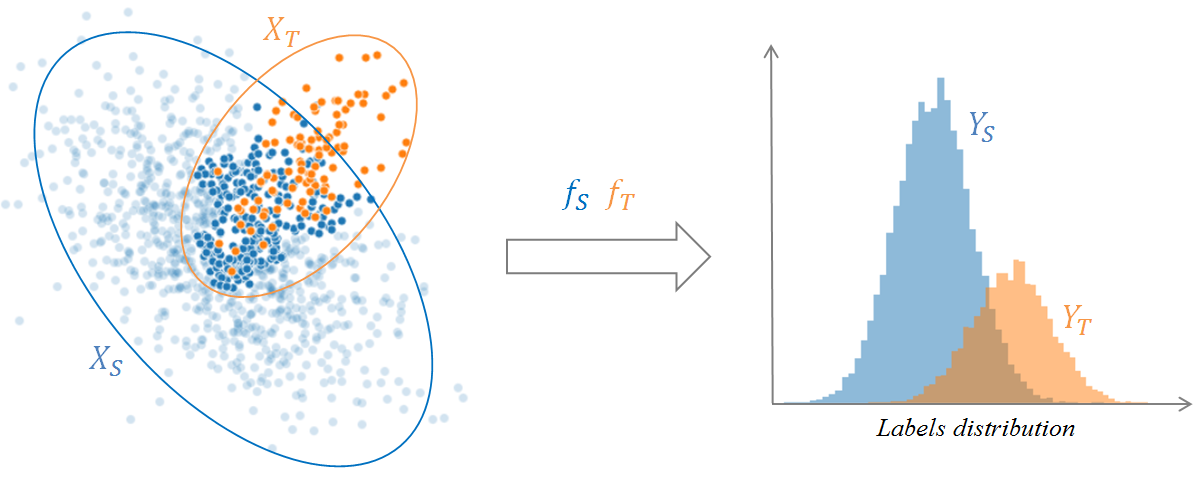
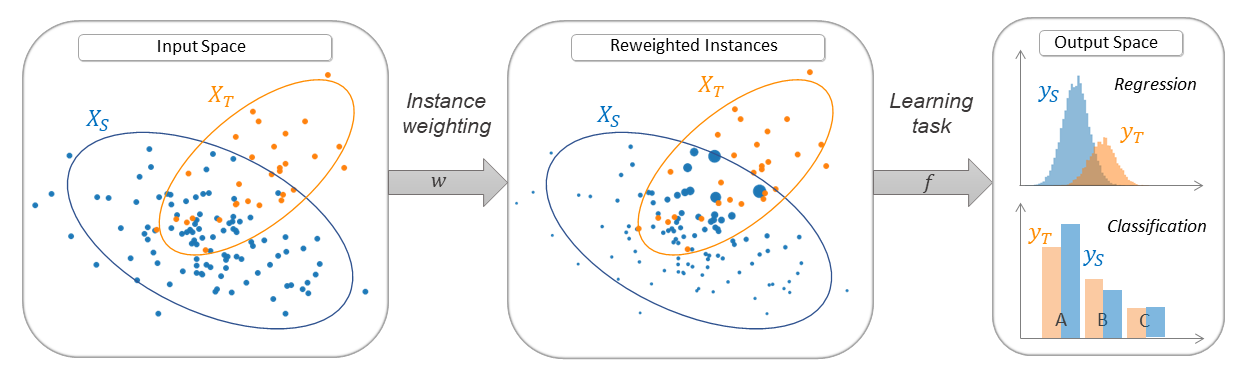
init tests

diff --git a/docs/source/_templates/index.html b/docs/source/_templates/index.html
@@ -19,7 +19,7 @@
 {% endblock %}
 
 {% block body %}
-  <h1>{{ _('Welcome') }}</h1>
+  <h1 class="index-title">Welcome to the ADAPT package!</h1>
   
   <h2> Modules </h2>
   
@@ -28,7 +28,8 @@
 		  <div class="card h-100">
 			<div class="card-body">
 			  <a><h4 class="card-title">Feature-Based</h4></a>
-			  <p class="card-text">Identifying which category an object belongs to.</p>
+			  <p class="card-text">Feature-based methods are based on the research of common features which have similar 
+			  behaviour with respect to the task on source and target domain. </p>
 			  <p class="card-text"><strong>Algorithms:</strong>
 			  <a href="{{ pathto("generated/adapt.feature_based.FE") }}">FE</a>, ...
 			</p>
@@ -36,7 +37,7 @@
 			
 			<div class="image">
 			  <a href="{{ pathto("contents") }}#adapt-feature-based">
-			  <img src="_static/images/feature_based.PNG" class="sk-index-img" style="width:400px;height:200px;" alt="Feature-Based">
+			  <img src="_static/images/feature_based.PNG" class="sk-index-img" alt="Feature-Based">
 			  </a>
 			</div>
 			  <a class="btn btn-below" role="button" href="{{ pathto("contents") }}#adapt-feature-based">See all methods</a>
@@ -47,14 +48,15 @@
 		  <div class="card h-100">
 			<div class="card-body">
 			  <a><h4 class="card-title">Instance-Based</h4></a>
-			  <p class="card-text">Identifying which category an object belongs to. bababa</p>
+			  <p class="card-text">Feature-based methods are based on the research of common features
+			  which have similar behaviour with respect to the task on source and target domain. </p>
 			  <p class="card-text"><strong>Algorithms:</strong>
 			</p>
 			</div>
 			
 			<div class="image">
 			  <a href="{{ pathto("contents") }}#adapt-instance-based">
-			  <img src="_static/images/instance_based.PNG" class="sk-index-img" style="width:400px;height:200px;" alt="Instance-Based">
+			  <img src="_static/images/instance_based.PNG" class="sk-index-img" alt="Instance-Based">
 			  </a>
 			</div>
 			  <a class="btn btn-below" role="button" href="{{ pathto("contents") }}#adapt-instance-based">See all methods</a>
@@ -65,14 +67,15 @@
 		  <div class="card h-100">
 			<div class="card-body">
 			  <a><h4 class="card-title">Parameter-Based</h4></a>
-			  <p class="card-text">Identifying which category an object belongs to.</p>
+			  <p class="card-text">In parameter-based methods, the parameters of one or few pre-trained models built with
+			  the source data are adapted to build a suited model for the task on the target domain.</p>
 			  <p class="card-text"><strong>Algorithms:</strong>
 			</p>
 			</div>
 			
 			<div class="image">
 			  <a href="{{ pathto("contents") }}#adapt-parameter-based">
-			  <img src="_static/images/parameter_based.PNG" class="sk-index-img" style="width:400px;height:200px;"  alt="Parameter-Based">
+			  <img src="_static/images/parameter_based.PNG" class="sk-index-img" alt="Parameter-Based">
 			  </a>
 			</div>
 			  <a class="btn btn-below" role="button" href="{{ pathto("contents") }}#adapt-parameter-based">See all methods</a>
@@ -86,19 +89,17 @@
 	  <div class="two-cards first">
 		  <div class="card h-100">
 			<div class="card-body">
-			  <a><h4 class="card-title">Feature-Based</h4></a>
+			  <a><h4 class="card-title">Classification</h4></a>
 			  <p class="card-text">Identifying which category an object belongs to.</p>
-			  <p class="card-text"><strong>Algorithms:</strong>
-			  <a>FE</a>, ...
 			</p>
 			</div>
 			
 			<div class="image">
 			  <a>
-			  <img src="_static/images/feature_based.PNG" class="sk-index-img" style="width:400px;height:200px;" alt="Feature-Based">
+			  <img src="_static/images/classification.png" class="sk-index-img" style="width:400px;height:200px;" alt="Feature-Based">
 			  </a>
 			</div>
-			  <a class="btn btn-below" role="button">See all methods</a>
+			  <a class="btn btn-below" role="button">See examples</a>
 		  </div>
 		</div>
 		
@@ -106,18 +107,17 @@
 		<div class="two-cards second">
 		  <div class="card h-100">
 			<div class="card-body">
-			  <a><h4 class="card-title">Instance-Based</h4></a>
-			  <p class="card-text">Identifying which category an object belongs to.</p>
-			  <p class="card-text"><strong>Algorithms:</strong>
+			  <a><h4 class="card-title">Regression</h4></a>
+			  <p class="card-text">Predicting a real value.</p>
 			</p>
 			</div>
 			
 			<div class="image">
 			  <a>
-			  <img src="_static/images/instance_based.PNG" class="sk-index-img" style="width:400px;height:200px;" alt="Instance-Based">
+			  <img src="_static/images/regression.png" class="sk-index-img" style="width:400px;height:200px;" alt="Instance-Based">
 			  </a>
 			</div>
-			  <a class="btn btn-below" role="button">See all methods</a>
+			  <a class="btn btn-below" role="button">See examples</a>
 		  </div>
 		</div>
   </div>

diff --git a/adapt/feature_based/_fe.py b/adapt/feature_based/_fe.py
@@ -1,3 +1,8 @@
+"""
+Frustratingly Easy Domain Adaptation module.
+"""
+
+
 import numpy as np
 from sklearn.linear_model import LinearRegression
 
@@ -52,13 +57,12 @@ class FE:
 
     References
     ----------
-    .. [1] `[1] <https://arxiv.org/pdf/0907.1815.pdf>`_ Daume III,
-    H. "Frustratingly easy domain adaptation". In ACL, 2007.
+    .. [1] `[1] <https://arxiv.org/pdf/0907.1815.pdf>`_ Daume III, H. "Frustratingly easy domain adaptation". In ACL, 2007.
     """
     def __init__(self, get_estimator, **kwargs):
         self.get_estimator = get_estimator
         self.kwargs = kwargs
-        
+
         if self.get_estimator is None:
             self.get_estimator = LinearRegression()
 
@@ -114,13 +118,13 @@ class FE:
         Return the predictions of ``estimator_`` on the augmented feature space.
 
         ``domain`` arguments specify how features from ``X`` will be considered:
-        as ``"source"`` or ``"target"`` features. 
+        as ``"source"`` or ``"target"`` features.
 
         Parameters
         ----------
         X : array
             Input data.
-    
+
         domain : str, optional (default="target")
             Choose between ``"source"`` and ``"target"`` pre-processing.
 

diff --git a/docs/source/conf.py b/docs/source/conf.py
@@ -60,6 +60,11 @@ html_theme = 'sphinx_rtd_theme'
 #html_theme_path = sphinx_bootstrap_theme.get_html_theme_path()
 #html_sidebars = {'**': ['localtoc.html', 'sourcelink.html', 'searchbox.html']}
 
+html_theme_options = {
+    'navigation_depth': 4,
+    'collapse_navigation': False
+}
+
 # Add any paths that contain custom static files (such as style sheets) here,
 # relative to this directory. They are copied after the builtin static files,
 # so a file named "default.css" will overwrite the builtin "default.css".

diff --git a/tests/__init__.py b/tests/__init__.py
@@ -1,0 +1,3 @@
+"""
+Tests for adapt package.
+"""

diff --git a/docs/source/contents.rst b/docs/source/contents.rst
@@ -1,34 +1,44 @@
-.. _adapt:
-
 ADAPT
 =====
 
-The principle of classical machine learning is to use data from the past to learn a predictive
-model for the future. However it proceed on the assumption that
-future data will look the same as previous seen ones. In a mathematical formulation we
-would say that the domain of previous and future data are the same and
-follow the same distribution.
+:ref:`ADAPT <index>` is a **Python** package providing some well known **domain adaptation** methods.
 
-In most of real-world problems this assumption is not verified and the data on which we
-want to use a machine learning model are very different from those used to build the model.
+The purpose of **domain adaptation (DA)** methods is to handle the common issue encounter in
+**machine learning** where training and testing data are drawn according to different distributions.
 
-To handle this kind of issue, many **domain adaptation** methods have been developped recently.
-These methods are used to improve machine learning models applied on one
-domain called **target** by transferring information from one or more related domains
-called **source**.
+In **domain adaptation** setting, one is aiming to learn a **task** with an estimator :math:`f` mapping
+input data :math:`X` into output data :math:`y` called also **labels**. :math:`y` is either a finite set of integer value
+(for **classification** tasks) or an interval of real values (for **regression** tasks).
+
+Besides, in this setting, one consider, on one hand, a **source** domain from which a large sample of **labeled data**
+:math:`(X_S, y_S)` are available. And in the other hand, a **target** domain from which **no (or only a few) labeled data** :math:`(X_T, y_T)` are available.
+If no labeled target data are available, one refers to **unsupervised domain adaptation**. If a few labeled target data are available
+one refers to **supervised domain adaptation** also called **few-shot learning**.
+
+The goal of **domain adaptation** is to build a good estimator :math:`f_T` on the **target** domain by leaveraging information from the **source** domain.
+**DA** methods follow one of these three strategies:
+
+ - :ref:`Feature-Based <adapt.feature_based>`
+ - :ref:`Instance-Based <adapt.instance_based>`
+ - :ref:`Parameter-Based <adapt.parameter_based>`
+
+The following part explains each strategy and gives lists of the implemented methods in the :ref:`ADAPT <index>` package.
 
 .. _adapt.feature_based:
 
 :ref:`adapt.feature_based <adapt.feature_based>`: Feature-Based Methods
 -----------------------------------------------------------------------
 
-Features-based approaches consist in finding a "good" features representation that minimize
-both domains divergence between source and target and the loss of our predictive function fT.
+Feature-based methods are based on the research of common features which have similar
+behaviour with respect to the **task** on **source** and **target** domain. 
+
+A new feature representation (often called **encoded feature space**) is built with a 
+projecting application :math:`\phi` which aims to correct the difference between **source**
+and **target** distributions. The **task** is then learned in this **encoded feature space**.
+
 
 .. figure:: _static/images/feature_based.PNG
-    :width: 800px
     :align: center
-    :height: 400px
     :alt: alternate text
     :figclass: align-center
 
@@ -53,16 +63,15 @@ both domains divergence between source and target and the loss of our predictive
 :ref:`adapt.instance_based <adapt.instance_based>`: Instance-Based Methods
 --------------------------------------------------------------------------
 
-The general principle of this method is to re-weight labeled data from the source domain
-in order to correct the marginal distribution difference between the source and the target
-domains. The re-weighted source data are then directly used with the few target labeled
-data to train a predictive function fT().
+The general principle of these methods is to **reweight** labeled training data
+in order to correct the difference between **source** and **target** distributions.
+This **reweighting** consists in multiplying, during the training process, the individual loss of each training instance by a positive **weight**.
+
+The **reweighted** training instances are then directly used to learn the task.
 
 
 .. figure:: _static/images/instance_based.PNG
-    :width: 800px
     :align: center
-    :height: 400px
     :alt: alternate text
     :figclass: align-center
 
@@ -78,14 +87,12 @@ data to train a predictive function fT().
 :ref:`adapt.parameter_based <adapt.parameter_based>`: Parameter-Based Methods
 -----------------------------------------------------------------------------
 
-Parameters-based approach consist to transfer knowledge through shared parameters of
-source and target predictive models fS and fT or by creating multiple source models fS and
-optimally combining them to form fT .
+In parameter-based methods, the **parameters** of one or few pre-trained models built with
+the **source** data are adapted to build a suited model for the **task** on the **target** domain.
+
 
 .. figure:: _static/images/parameter_based.PNG
-    :width: 800px
     :align: center
-    :height: 400px
     :alt: alternate text
     :figclass: align-center
 

diff --git a/docs/source/index.rst b/docs/source/index.rst
@@ -1,0 +1,1 @@
+.. _index:
